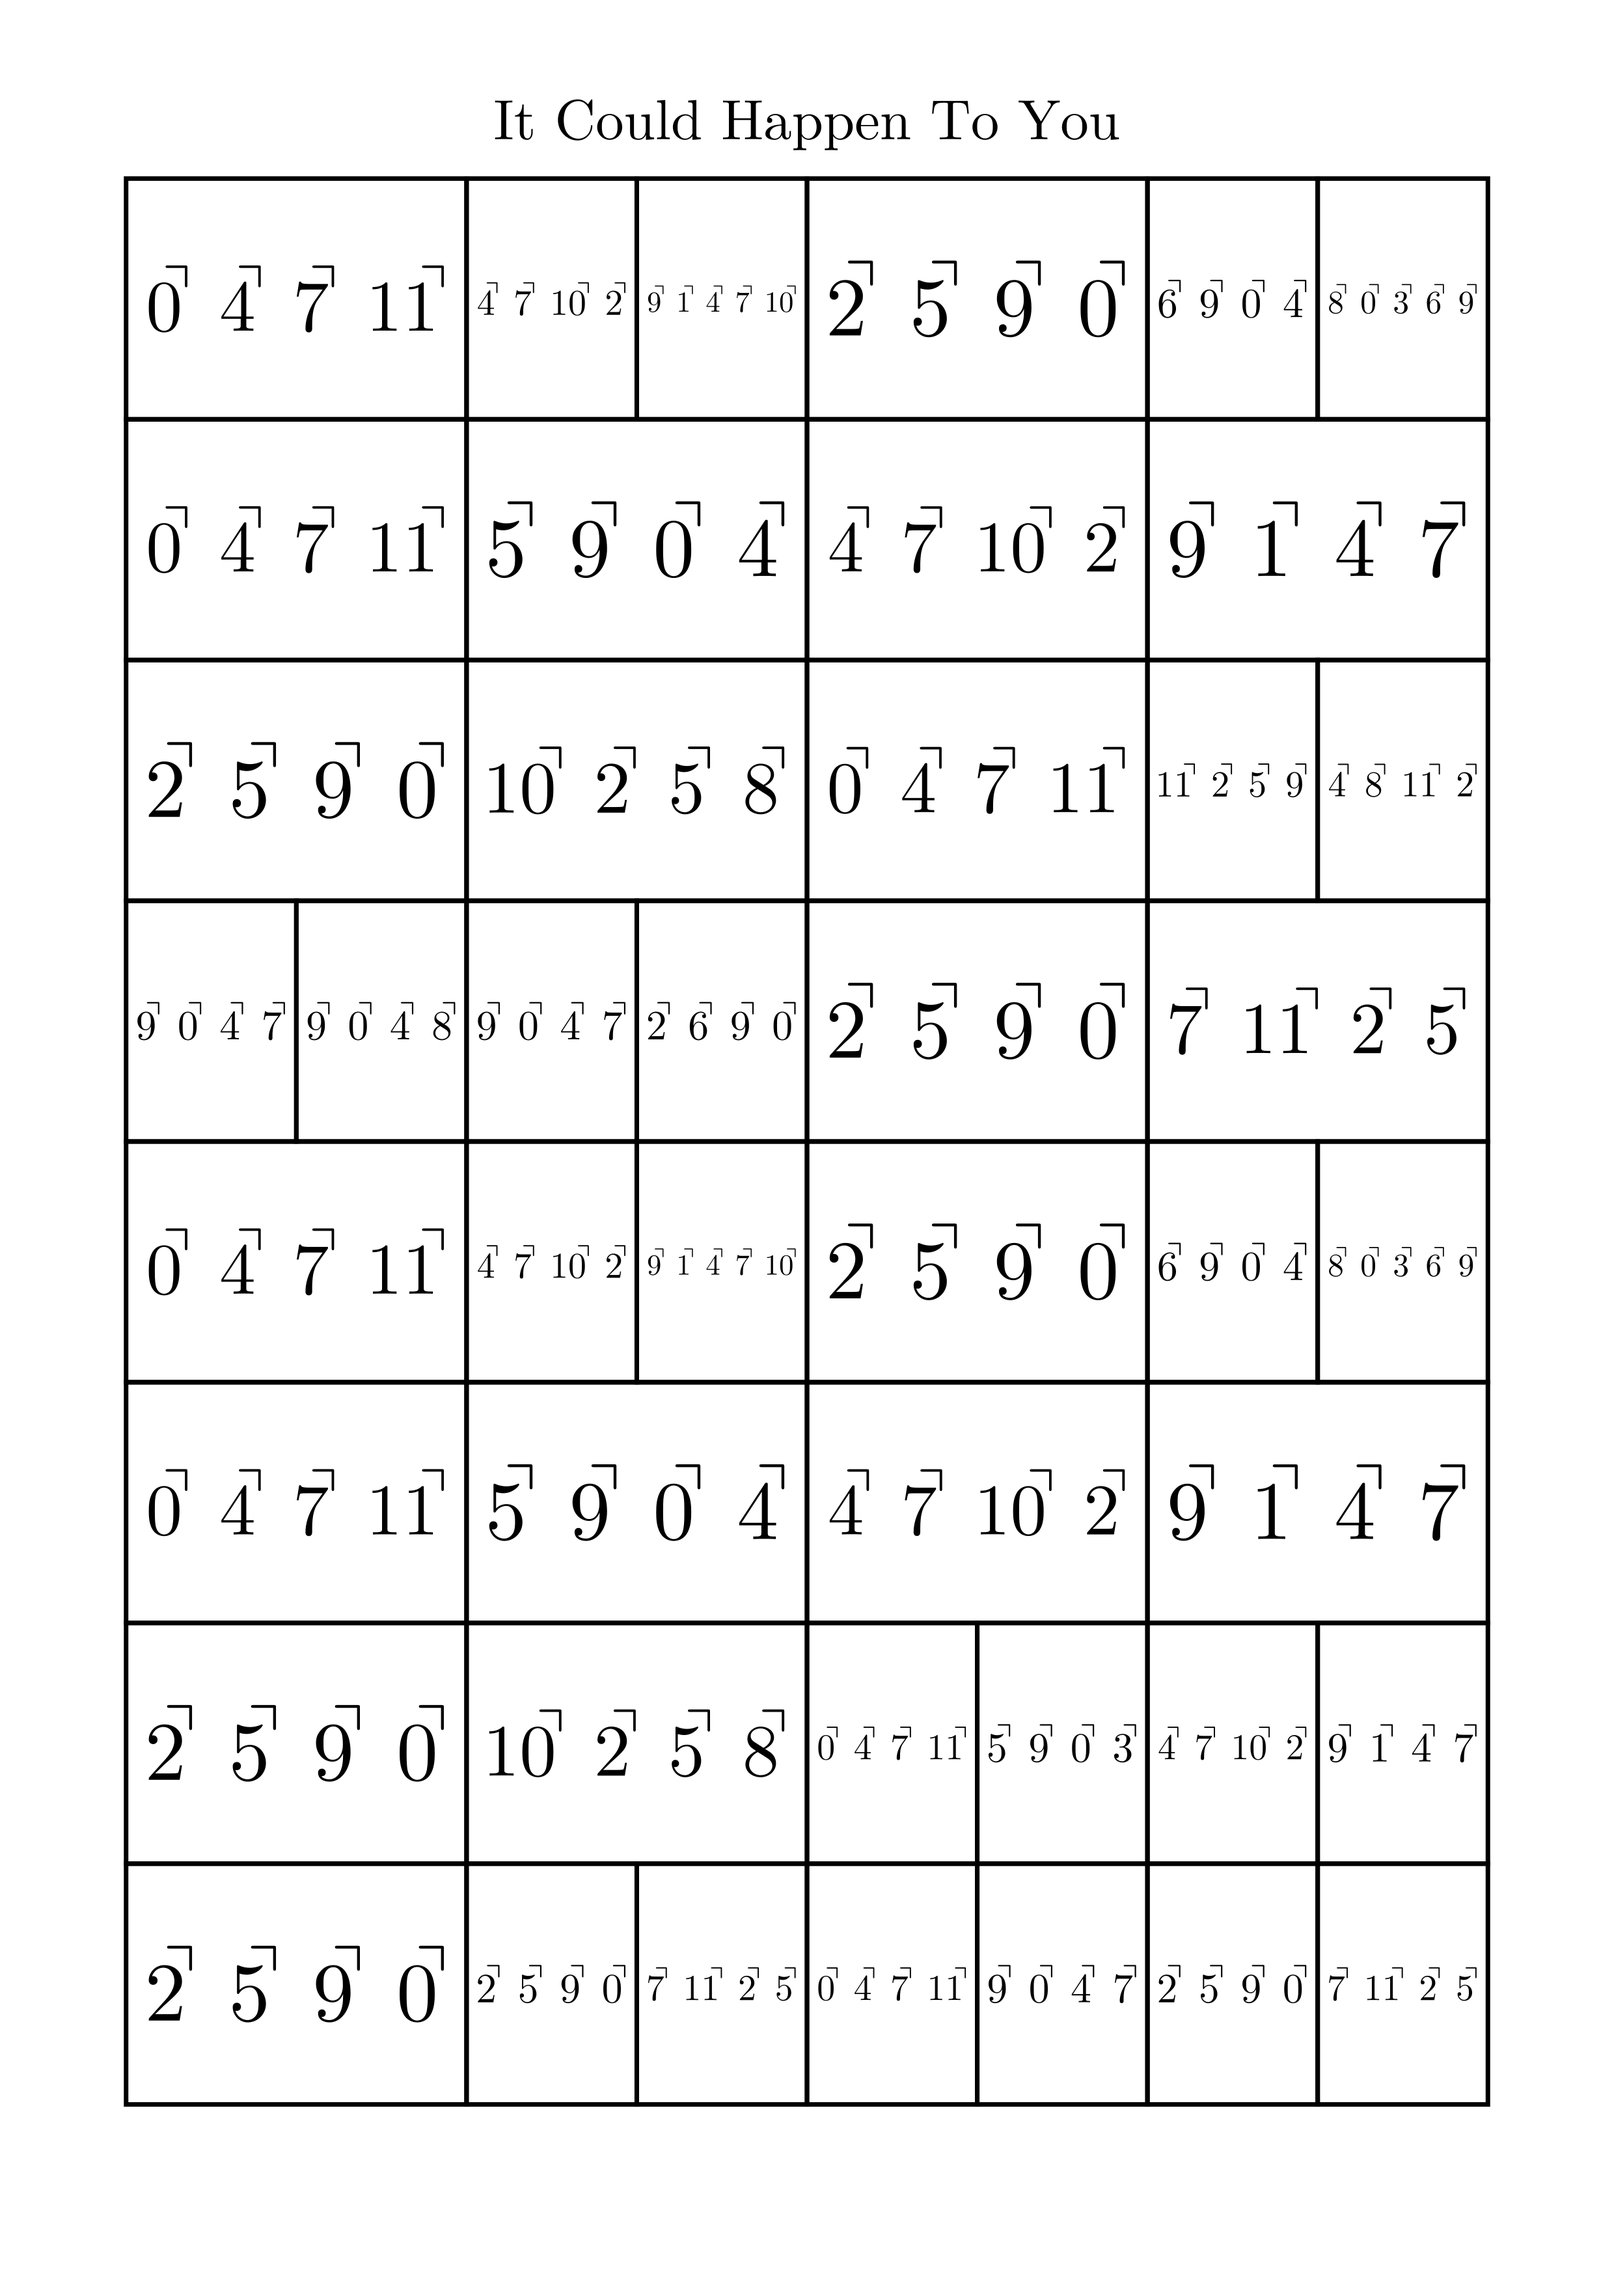
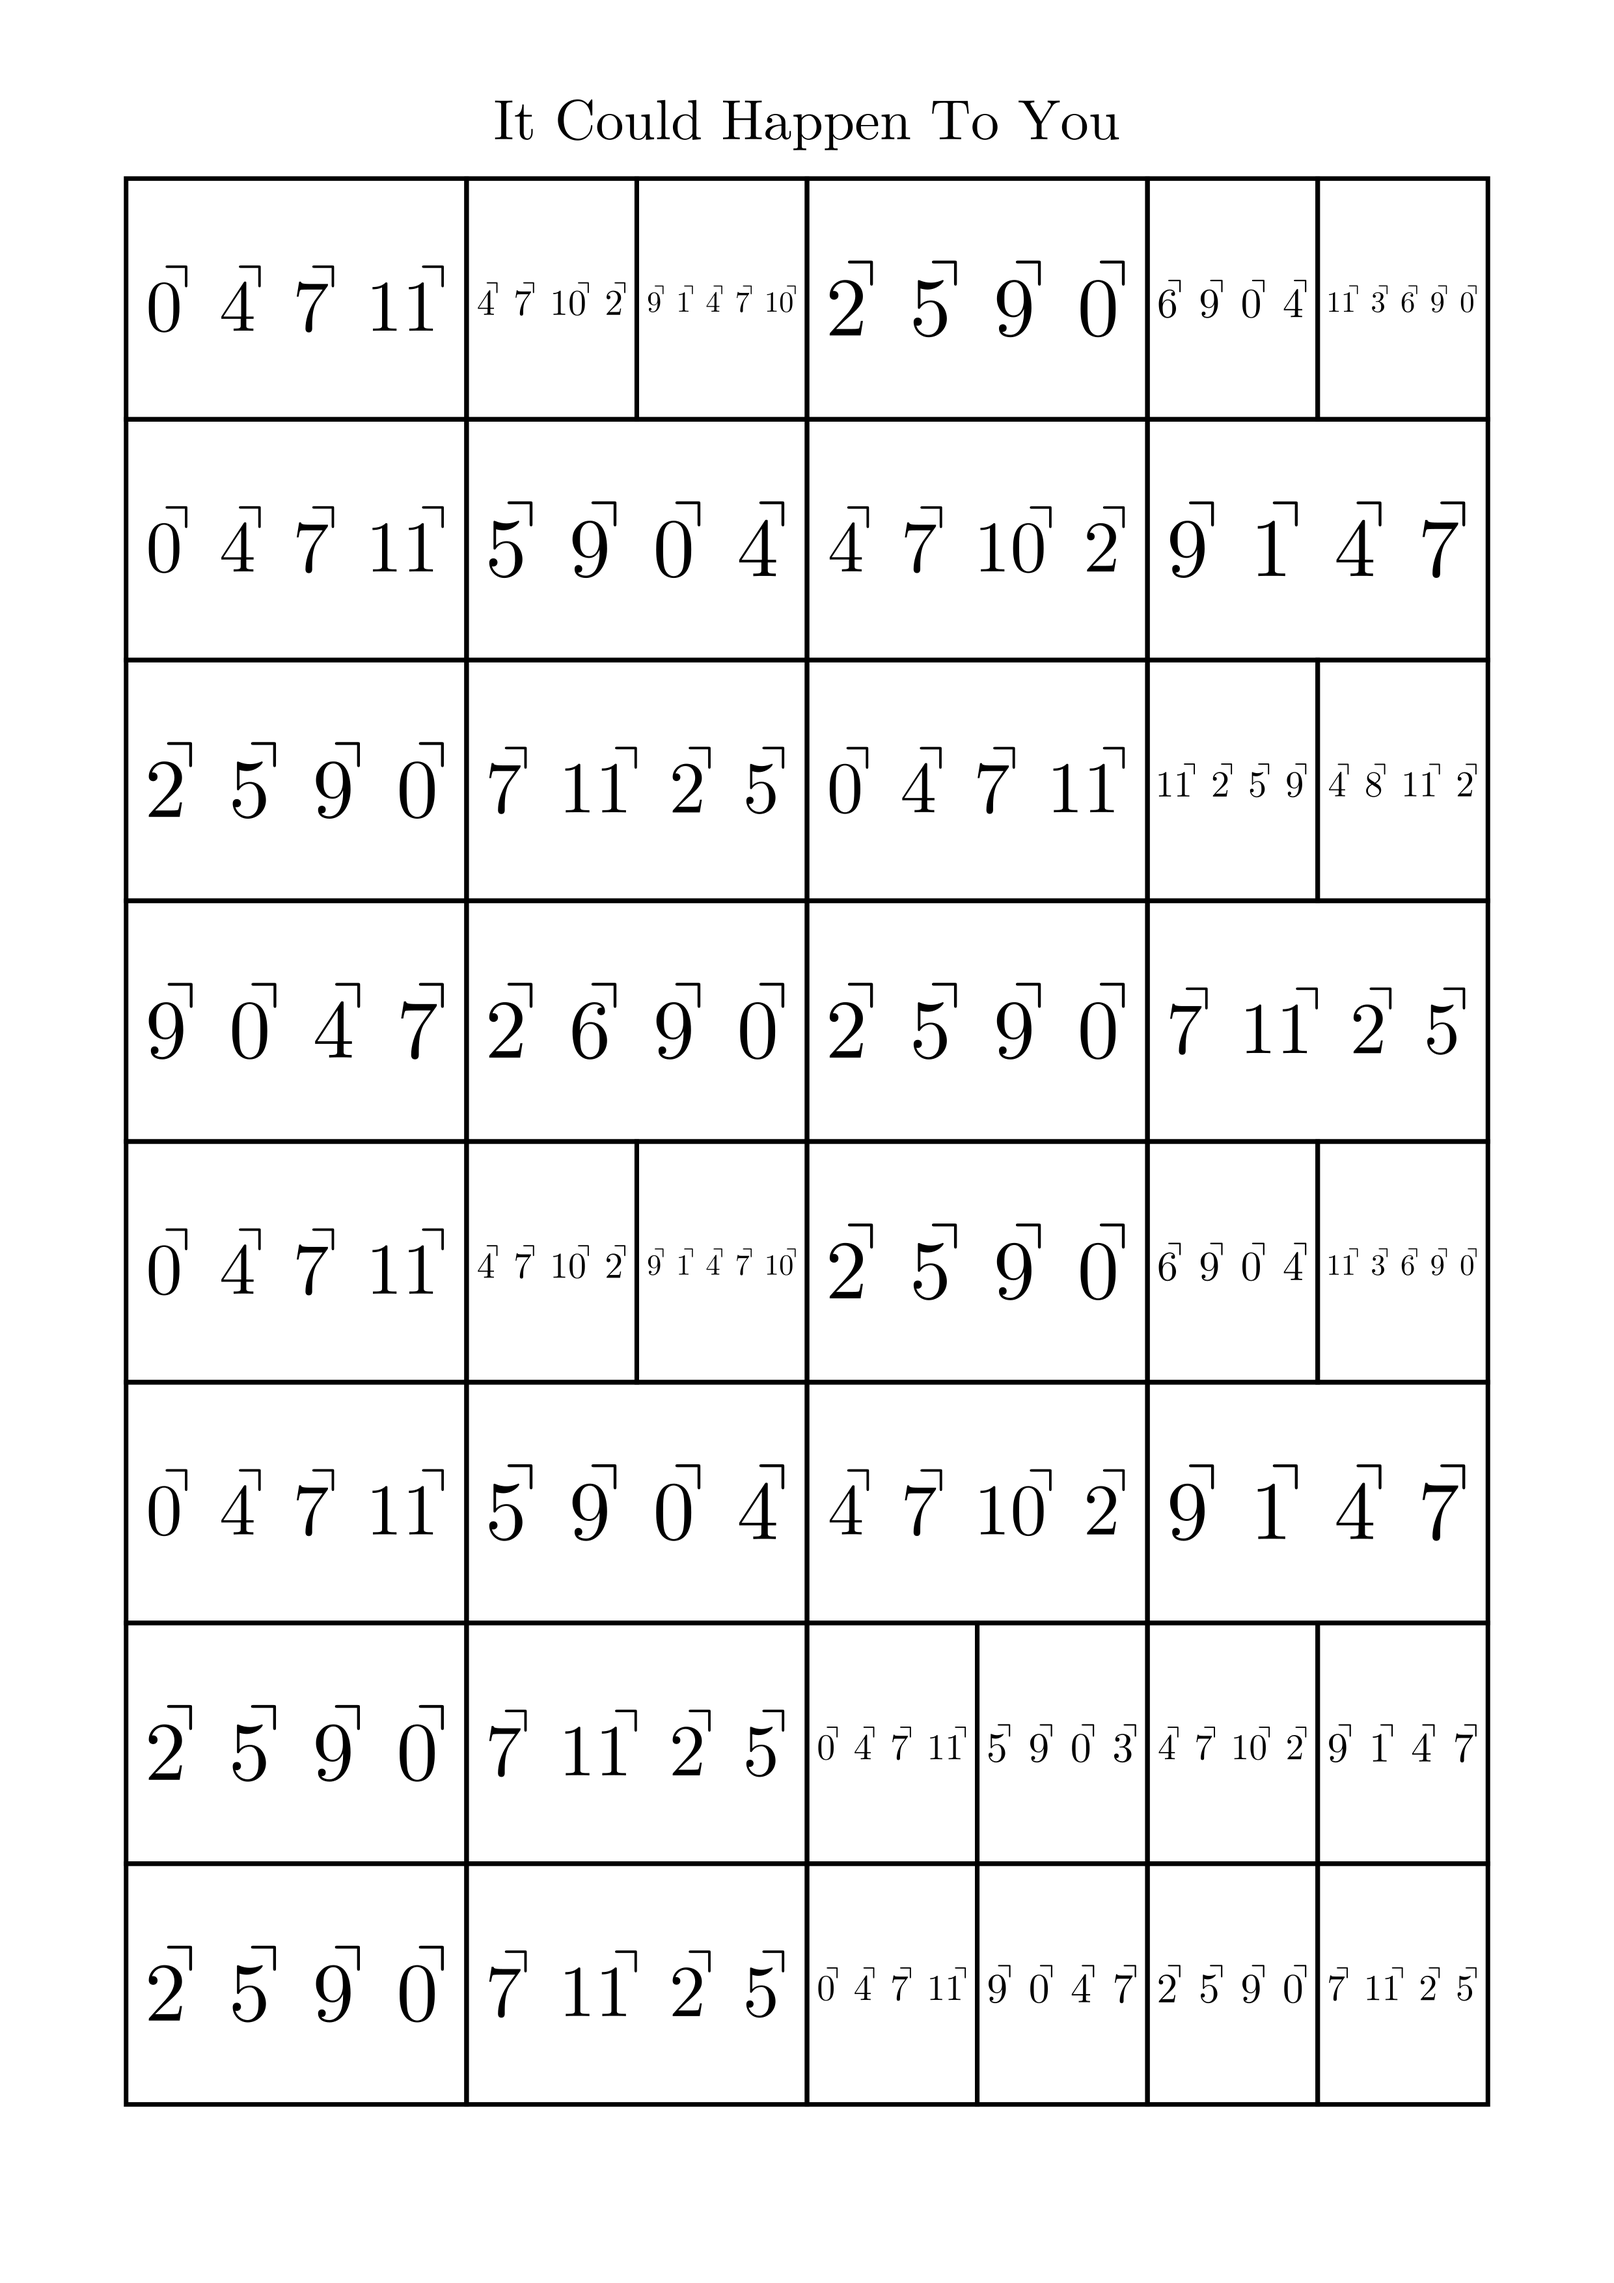
create lead sheet

diff --git a/lead_sheet_creator.py b/lead_sheet_creator.py
@@ -51,20 +51,16 @@ class TableAnimation(Scene):
             table = VGroup()
             for row in tex_table_data:
                 for table_entry in row:
-                    if table_entry.double_entry:
-                        first = table_entry.first_content
-                        second = table_entry.second_content
-                        rect_f = Rectangle(
-                            width=t_ctx.cell_width / 2, height=t_ctx.cell_height, color=table_color
-                        )
-                        rect_s = Rectangle(
-                            width=t_ctx.cell_width / 2, height=t_ctx.cell_height, color=table_color
-                        )
-                        apply_cell_sizing(t_ctx, first, half_size=True)
-                        apply_cell_sizing(t_ctx, second, half_size=True)
-                        rect_f.add(first)
-                        rect_s.add(second)
-                        rect = VGroup(rect_f, rect_s).arrange(buff=0)
+                    if table_entry.multi_entry:
+                        rects = []
+                        for entry_content in table_entry.entries:
+                            rect_f = Rectangle(
+                                width=t_ctx.cell_width / 2, height=t_ctx.cell_height, color=table_color
+                            )
+                            apply_cell_sizing(t_ctx, entry_content, half_size=True)
+                            rect_f.add(entry_content)
+                            rects.append(rect_f)
+                        rect = VGroup(*rects).arrange(buff=0)
                     else:
                         content = table_entry.content
                         rect = Rectangle(
@@ -82,12 +78,13 @@ class TableAnimation(Scene):
         # drawing of tables
 
         class TableEntry:
-            def __init__(self, content, double_entry=False, font_color=BLACK):
-                self.double_entry = double_entry
+            def __init__(self, content, multi_entry=False, font_color=BLACK):
+                self.multi_entry = multi_entry
                 self.raw_content = content
-                if self.double_entry:
-                    self.first_content = MathTex(content[0], color=font_color)
-                    self.second_content = MathTex(content[1], color=font_color)
+                self.entries = []
+                if self.multi_entry:
+                    for text in content:
+                        self.entries.append(MathTex(text, color=font_color))
                 else:
                     self.content = MathTex(content, color=font_color)
                 # if double entry is true, then content is an array of length 2
@@ -106,22 +103,18 @@ class TableAnimation(Scene):
                     table_row = []
                     for entry in row:
                         if type(entry) == list:
-                            first_entry = entry[0]
-                            second_entry = entry[1]
-                            # assuming both are RIC's
-                            if not is_RIC_notation(first_entry):
-                                first_processed = first_entry
-                            else:
-                                first_processed = fun_step(first_entry)
-                            if not is_RIC_notation(second_entry):
-                                second_processed = second_entry
-                            else:
-                                second_processed = fun_step(second_entry)
-
+                            processed_entries = []
+                            for sub_entry in entry:
+                                if not is_RIC_notation(sub_entry):
+                                    processed = sub_entry
+                                else:
+                                    processed = fun_step(sub_entry)
+                                processed_entries.append(processed)
+            
                             table_row.append(
                                 TableEntry(
-                                    [first_processed, second_processed],
-                                    double_entry=True,
+                                    processed_entries,
+                                    multi_entry=True,
                                 )
                             )
                         elif not is_RIC_notation(entry):

diff --git a/SongData.py b/SongData.py
@@ -76,19 +76,26 @@ the_chicken = [
     ["0 | 0 4 7 10", repeat_symbol, repeat_symbol, "break"], 
 ]
 
+# it could happen to you START
+
 A = [
-    ["0 | 0 4 7 11", ["4 | 0 3 6 10", "9 | 0 4 7 10 1"], "2 | 0 3 7 10", ["6 | 0 3 6 10 ", "8 | 0 4 7 10 1"]],
+    ["0 | 0 4 7 11", ["4 | 0 3 6 10", "9 | 0 4 7 10 1"], "2 | 0 3 7 10", ["6 | 0 3 6 10 ", "11 | 0 4 7 10 1"]],
     ["0 | 0 4 7 11", "5 | 0 4 7 11", "4 | 0 3 6 10", "9 | 0 4 7 10"],
 ]
 
 B =  [
-    ["2 | 0 3 7 10", "10 | 0 4 7 10", "0 | 0 4 7 11", ["11 | 0 3 6 10", "4 | 0 4 7 10"]],
-    [["9 | 0 3 7 10", "9 | 0 3 7 11"], ["9 | 0 3 7 10", "2 | 0 4 7 10"], "2 | 0 3 7 10", "7 | 0 4 7 10"],
+    ["2 | 0 3 7 10", "7 | 0 4 7 10", "0 | 0 4 7 11", ["11 | 0 3 6 10", "4 | 0 4 7 10"]],
+    ["9 | 0 3 7 10",  "2 | 0 4 7 10", "2 | 0 3 7 10", "7 | 0 4 7 10"],
+]
+
+A_prime = [
+    ["0 | 0 4 7 11", "1 | 0 3 6 9", "2 | 0 3 7 10", ["6 | 0 3 6 10 ", "11 | 0 4 7 10 1"]],
+    ["0 | 0 4 7 11", "5 | 0 4 7 11", "4 | 0 3 6 10", "9 | 0 4 7 10"],
 ]
 
 B_prime = [
-    ["2 | 0 3 7 10", "10 | 0 4 7 10", ["0 | 0 4 7 11", "5 | 0 4 7 10"], ["4 | 0 3 6 10", "9 | 0 4 7 10"]],
-    ["2 | 0 3 7 10", ["2 | 0 3 7 10", "7 | 0 4 7 10"], ["0 | 0 4 7 11", "9 | 0 3 7 10"], ["2 | 0 3 7 10", "7 | 0 4 7 10"]]
+    ["2 | 0 3 7 10", "7 | 0 4 7 10", ["0 | 0 4 7 11", "5 | 0 4 7 10"], ["4 | 0 3 6 10", "9 | 0 4 7 10"]],
+    ["2 | 0 3 7 10", "7 | 0 4 7 10", ["0 | 0 4 7 11", "9 | 0 3 7 10"], ["2 | 0 3 7 10", "7 | 0 4 7 10"]]
 ]
 
 it_could_happen_to_you = [
@@ -97,6 +104,39 @@ it_could_happen_to_you = [
     *A,
     *B_prime
 ]
+
+# it could happen to you END
+
+# lullaby of bird land START
+
+A0 = [
+    [["5 | 0 3 7", "2 | 0 3 6 10"], ["7 | 0 4 7 10", "0 | 0 4 7 10"], "5 | 0 3 7", ["10 | 0 3 7 10", "3 | 0 4 7 10"]],
+    [["0 | 0 3 7 10", "5 | 0 3 7 10"], ["10 | 0 3 7 10", "3 | 0 4 7 10"], "8 | 0 4 7 11", ["7 | 0 3 6 10", "0 | 0 4 7 10 1"]]
+]
+
+A1 = [
+    [["5 | 0 3 7", "2 | 0 3 6 10"], ["7 | 0 4 7 10", "0 | 0 4 7 10"], "5 | 0 3 7", ["10 | 0 3 7 10", "3 | 0 4 7 10"]],
+    [["0 | 0 3 7 10", "5 | 0 3 7 10"], ["10 | 0 3 7 10", "3 | 0 4 7 10"], ["8 | 0 4 7 11", "3 | 0 4 7 10"], "8 | 0 4 7 11"]
+]
+
+B = [
+        [["0 | 0 3 6 10", "5 | 0 4 7 10 1"], "10 | 0 3 7 10", [ "10 | 0 3 7 10", "3 | 0 4 7 10 1"], "8 | 0 4 7 11"],
+        [["0 | 0 3 6 10", "5 | 0 4 7 10 1"], "10 | 0 3 7 10", [ "10 | 0 3 7 10", "3 | 0 4 7 10 1"], ["8 | 0 4 7 11", "0 | 0 4 7 10 1"]],
+]
+
+A2 = [
+    [["5 | 0 3 7", "2 | 0 3 6 10"], ["7 | 0 4 7 10", "0 | 0 4 7 10"], "5 | 0 3 7", ["10 | 0 3 7 10", "3 | 0 4 7 10"]],
+    [["0 | 0 3 7 10", "5 | 0 3 7 10"], ["10 | 0 3 7 10", "3 | 0 4 7 10"], ["8 | 0 4 7 11", "3 | 0 4 7 10"], ["8 | 0 4 7 11", "7 | 0 3 6 10", "0 | 0 4 7 10"]]
+]
+
+lullaby_of_bird_land = [
+    *A0,
+    *A1,
+    *B,
+    *A2
+]
+
+# lullaby of bird land END
 
 basic_blues = [
     ["0 | 0 4 7 10", repeat_symbol, repeat_symbol, repeat_symbol],
